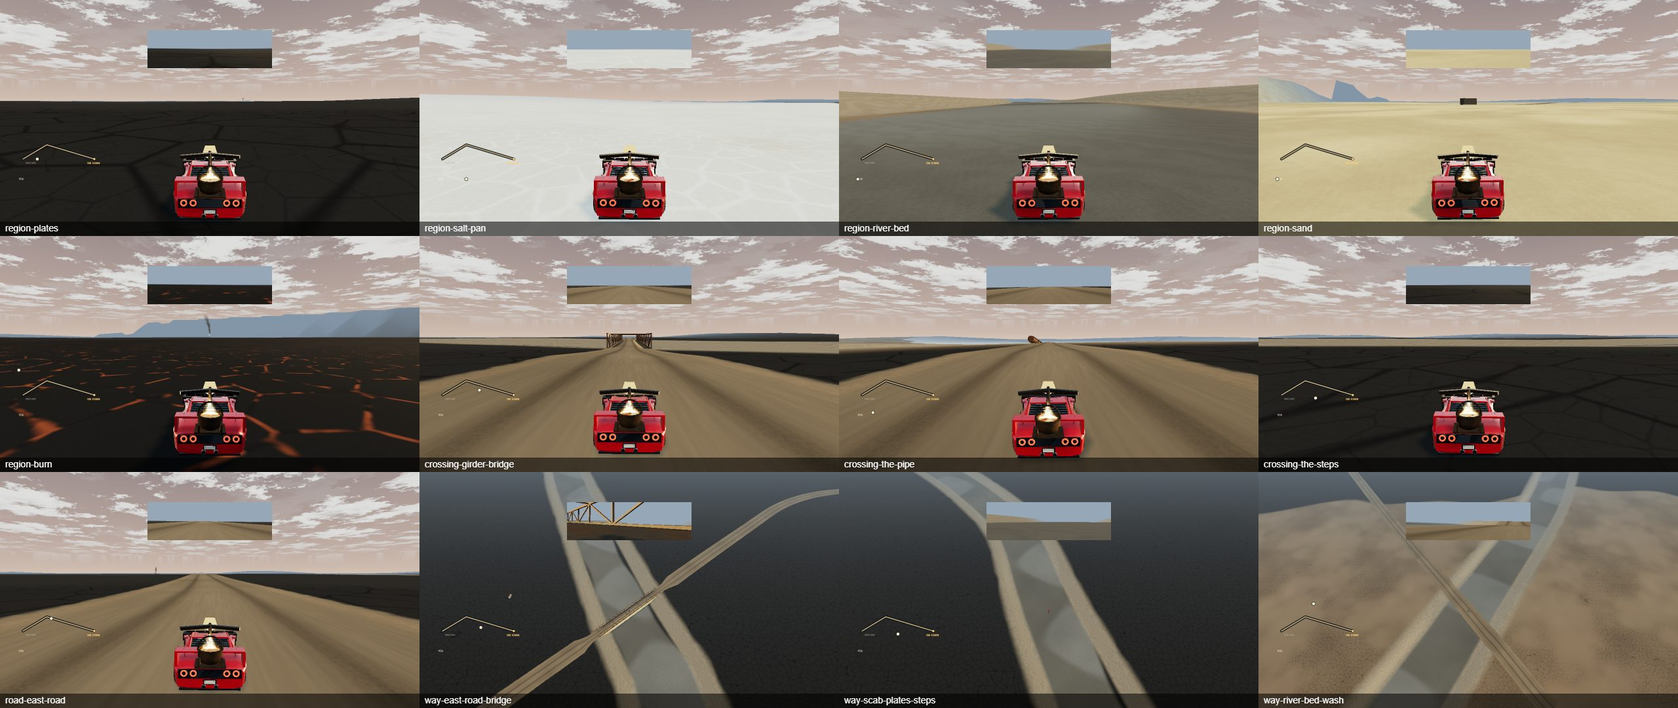
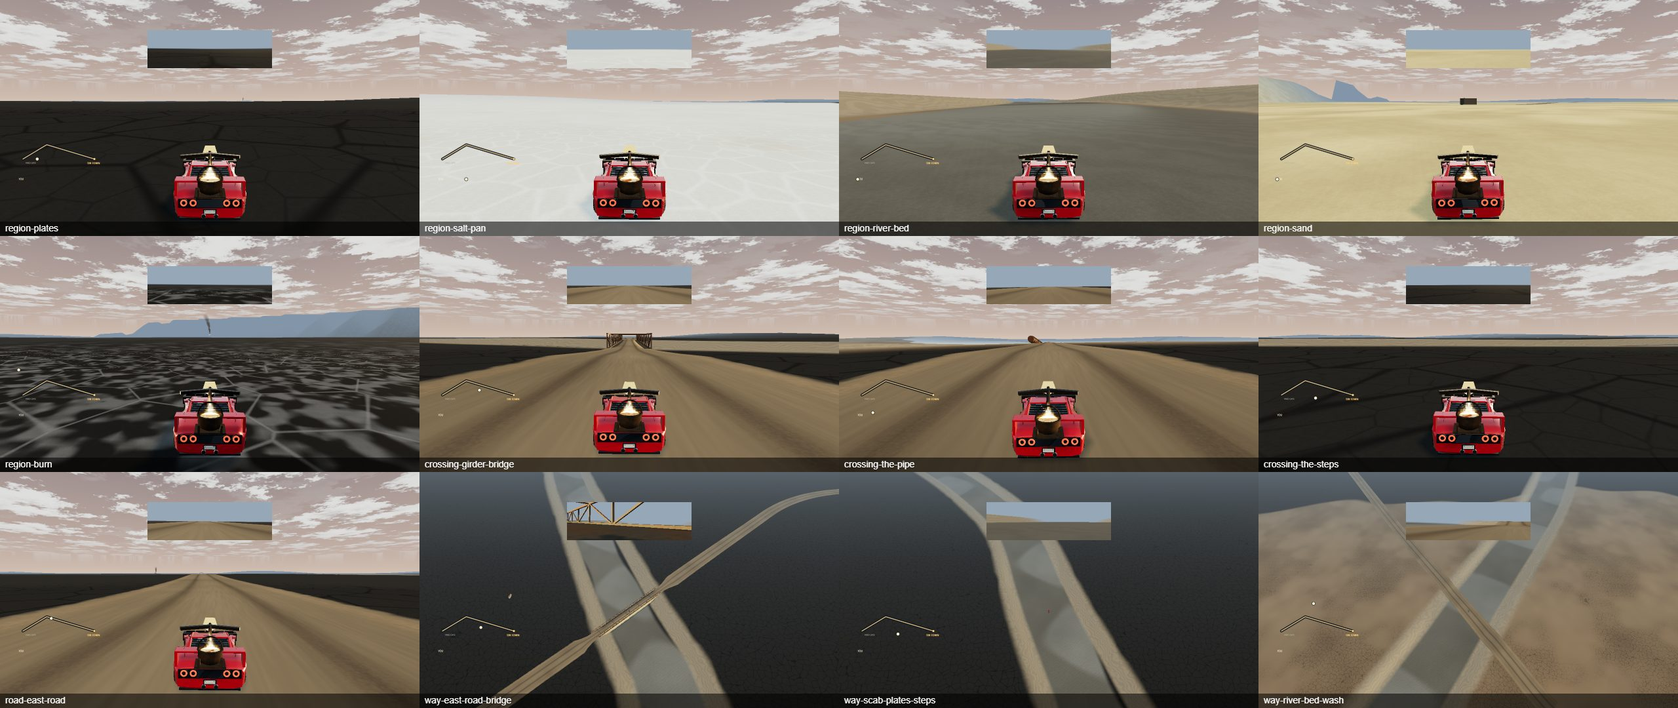
SCABLANDS-LAND round 4 slice 2a: reviewed, corrected and merged; the map, solid ground, hill country and falling buildings designed
Claude at the merge: the drag off a road is capped at 40 mph a second (a car leaving
the salt pan for rock was shedding 9 km/h in a step, which the ember read as a hit), the
size suite's step limit is 2 mph again, and the burn is drawn as burnt ground, not lava.
Sheet round-5 reviewed. Kyle's direction of 14 November (hills, solid buildings that fall
and cost scrap, the map) is on the decisions page and the card, with a design for each.

Changed region(s): [[0.0, 0.4889, 0.25, 0.6722], [0.0938, 0.3972, 0.1562, 0.4278]]

diff --git a/src/world/scablands-ground-look.js b/src/world/scablands-ground-look.js
@@ -8,7 +8,7 @@
 //   the river bed  grey packed sand with ripples, dark soft patches, banks of layered rock;
 //   wreck fields   rust-stained dirt with flecks of metal;
 //   sand           pale dunes with fine ripples on them;
-//   the burn       black ash with dim red glints in its cracks near the Everburn.
+//   the burn       ground that has burnt: black soot near the Everburn, grey ash drifted over it, pale ash in the cracks.
 // The edges between regions are uneven (the same wave the driving uses). Cracks are cut from a cell pattern worked out from the
 // point itself, so that nothing repeats at any distance: the old crack pattern was read from a picture 413 m across and showed as a
 // grid a few hundred metres ahead. Roads (createRoadLook) are graded dirt with ruts and a berm.
@@ -177,14 +177,17 @@ export function createGroundLook({rock = 0x57493c, stone = 0x302b26, regions = n
             dc=mix(dc,dc*vec3(.82,.76,.7),smoothstep(.6,.85,gMid.r)*.4);
             gc+=dc*wSand;
           }
-          // ---- The burn: black ash, with dim red glints in its cracks near the Everburn.
+          // ---- The burn: ground that has burnt. Black soot near the Everburn, grey ash drifted over it further out, pale ash lying
+          // in the cracks. Nothing glows (glowing cracks read as lava); the vents and their fire come with the Everburn's job.
           if(wBurn>.004){
             vec3 bv=gVoronoi(gq/5.5);float seeB=smoothstep(2.0,9.0,5.5/gPix);
-            vec3 bc=uColBurn*(.6+.9*gBig.r)*(.8+.4*gFine.g);
-            float crack=mix(.1,1.0-smoothstep(.0,.09,bv.y),seeB);
-            bc=mix(bc,bc*.4,crack*.6);
             float near=1.0-smoothstep(300.0,1500.0,length(gq-uBurnCentre));
-            gGlow+=vec3(.5,.11,.02)*crack*near*smoothstep(.45,.7,gMid.g)*wBurn;
+            vec3 bc=uColBurn*(.6+.9*gBig.r)*(.8+.4*gFine.g);
+            float drift=smoothstep(.42,.74,gMid.g)*(1.0-.6*near);
+            bc=mix(bc,vec3(.2,.19,.18)*(.75+.5*gFine.r),drift*.6);
+            float crack=mix(.06,1.0-smoothstep(.0,.045,bv.y),seeB);
+            bc=mix(bc,vec3(.29,.28,.26)*(.7+.4*gFine.g),crack*.32*(1.0-drift*.5));
+            bc*=1.0-.35*smoothstep(.6,.85,gBig.g)*near;
             gc+=bc*wBurn;
           }
           // ---- The river bed and its banks: grey packed sand with ripples and dark soft patches; banks of layered rock.

diff --git a/src/sim-driving.js b/src/sim-driving.js
@@ -276,8 +276,13 @@ export function _drive(dt) {
     const scrub = surface.scrub;
     s.speedMph *= Math.exp(-scrub * dt * (s.speedMph > offRoadLimit ? 1 : .25));
     // A car at full throttle settles a little over the limit (the pull against it is 1.4 a second). On the Scablands' regions the pull is
-    // 4 a second, so that a region's share of the top speed is the speed a car settles at, give or take a few percent.
-    if (s.speedMph > offRoadLimit) s.speedMph -= (s.speedMph - offRoadLimit) * (1 - Math.exp(-(surface.region ? 4 : 1.4) * dt));
+    // 4 a second, so that a region's share of the top speed is the speed a car settles at, give or take a few percent; but it never takes
+    // more than 40 mph in a second, so that a car leaving a road at speed is dragged down over a second or two and is not stopped as if by
+    // a wall (at 4 a second alone a car coming off the salt pan onto rock shed 9 km/h in one step, which the ember's rule read as a hit).
+    if (s.speedMph > offRoadLimit) {
+      const over = s.speedMph - offRoadLimit;
+      s.speedMph -= surface.region ? Math.min(over * (1 - Math.exp(-4 * dt)), 40 * dt) : over * (1 - Math.exp(-1.4 * dt));
+    }
     if (!surface.boostAllowed) s.boosting = false;
   }
   if(mud>0)s.speedMph*=Math.exp(-mud*.36*dt);

diff --git a/docs/board/cards/SCABLANDS-LAND.md b/docs/board/cards/SCABLANDS-LAND.md
@@ -262,6 +262,9 @@ suites, and the replay fingerprints of those jobs. None of that is in the game f
 3. **Beside the roads:** the seeded things and the hand-placed ones. A look round, sheet to Kyle.
 4. **The map:** the big and small maps redrawn from the same road and ground data.
 
+Order changed on 14 November after Kyle's second note (below): 2a, then 2b and the map (4) side
+by side, then 2c (hill country), 3 (beside the roads) and 2d (buildings fall).
+
 ### Slice 1 result (a Sonnet helper; reviewed by Claude, 14 November 2026): merged, switches off
 
 The land is 14 km by 10 km. The eight places stand ten times as far from the yard; the ridge and
@@ -412,10 +415,216 @@ toy-like.
 - **2a: regions, roads and how the ground drives.** All of the above. The river bed is drawn sunk
   with its banks but a car can still cross anywhere (so this build alone does not yet make
   routes).
-- **2b: ground that cannot be crossed.** The river's banks, the rises' steep faces and the
-  places' own buildings are solid: a car that meets one is stopped and pushed back, loses the
-  speed, and takes the hit. The crossings are the only ways over. Then Claude drives every road
-  and tries every short cut, in a window.
+- **2b: ground that cannot be crossed.** Designed below ("Slice 2b design").
+
+### Slice 2a result (a Sonnet helper; reviewed and corrected by Claude, 14 November 2026): merged, switches off
+
+Built as designed. Full note: `docs/changes/SCABLANDS-LAND.md`, "Round 4 slice 2a". Sheet
+`docs/board/looks/scablands-land/round-5.jpg` with Claude's review beside it.
+
+- **Twelve roads, 54 km**, curved so that the quickest car in the game holds every one within
+  2.4 m of its line at full speed. The old ring and the delivery road are gone.
+- **The dry river** with its five crossings, cut 8 m into the land. A car can still cross it
+  anywhere until slice 2b.
+- **Eight kinds of ground**, each drawn in code and each driving by the design's table. A car at
+  full throttle settles at about 194 km/h on a road, 240 on the salt pan, 146 on the flats, 96
+  on the scab plates and 74 in the sand.
+- **Sixteen low rises**, 26 m high (30 m made a road too steep), so a place is not seen from
+  the last one.
+- **The ember** reads the ground's safe speed; cold is 0.14 a second. Its three drives hold: the
+  East Road at 150 km/h arrives bright (72.5 left); the scab short cut at 50 km/h arrives alive
+  (39.1); a car held under 30 km/h goes out before Tin Town (at 5,966 m, with only six seconds
+  to spare; set again when the job is remade).
+- **Felt:** the camera shakes on scab rock and in the river bed, more with speed; the dust takes
+  the ground's colour; nine sound cues, one for each ground (`world.ground.road`, `.flats`,
+  `.salt-pan`, `.scab-plates`, `.river-bed`, `.river-soft`, `.sand`, `.wreck-fields`, `.burn`),
+  made from sounds the game has and not yet heard by anyone.
+- The East Road is 7.8 km, not 7: the bridge stands where the river runs north to south.
+
+**Two corrections by Claude at the merge.**
+1. *A car leaving a road was stopped as if by a wall.* To make a car settle at the table's
+   speed the helper raised the pull toward the ground's speed from 1.4 to 4 a second. A car
+   coming off the salt pan onto rock then shed 9 km/h in one step, more than twelve times a
+   hard brake, and the ember's rule read that as a hit. The pull stays 4 a second near the
+   ground's speed and never takes more than 40 mph in a second, so a car is dragged down over a
+   second or two. With that, the size suite's limit on a step's change of speed is back at 2 mph
+   (the helper had raised it to 3.2).
+2. *The burn read as lava.* Redrawn as burnt ground with nothing glowing (see the look review).
+
+**Changed assertions, reviewed by Claude (rule 18).** Listed by suite in the change note. Each
+follows the land's change and none is loosened: the ring and delivery-road checks became road
+net checks; the ember's road question became the ground's safe speed, and its three drives are
+the design's; the starts of jobs 5 and 6 are checked as more than 60 m from any road; the rail
+suite's copy of the height adds the rises and the river. Judged one by one:
+- `test-p4-audio` leaves the nine new ground cues out of the old sound bank's pin, as it did
+  the ember's three. Accepted: the pin guards the old records, which did not change.
+- `test-scablands-size`: the step limit of 3.2 mph is refused and is 2 again (correction 1).
+
+**Not driven by Claude in real time.** The app's browser pane was hidden again and the game
+does not load in it. Claude judged the pictures from a visible window. The real drive, every
+road and every short cut, is owed at the end of slice 2b, where the land first resists.
+
+**Left for the slices that own them.** Jobs 3 to 6 and the gas runs keep straight legs between
+names, off the new roads (each is set when its job is remade). A car flies off the far lip of a
+bank at 100 mph and drops 8 m into the bed in half a second with no harm (2b). The Steps have
+no way marked (2b). The six junk cars and three ramps of the old oval remain (2b).
+
+### Slice 2b design (Claude, 14 November 2026): the land's shape is solid
+
+**The fault.** In the Scablands a car does not feel the ground's shape. It drives up any bank,
+drops 8 m into the river in half a second with no harm, and passes through every building,
+wreck, post and fence. Kyle: "you could drive through any object".
+
+**One rule for the ground: the shape that is drawn is the shape that is driven.** The race
+courses already have the rules (`limitClimb` and `slopeSpeedDelta` in `src/offroad-physics.js`,
+used by `src/sim-driving.js`); the Scablands floor skips them. In the Scablands only:
+
+- **A slope slows a car going up and speeds it going down**, by the rule the courses use.
+- **A car cannot climb ground steeper than it can grip.** It is stopped at the foot, pushed back
+  and loses its speed: a hit, with the armour and ember loss a hit of that speed has. The
+  river's banks (8 m in 26 m) are too steep for every car; so the bed is left only at a
+  crossing.
+- **A car that drives off a lip falls.** It is in the air, it lands, and the landing is a hit
+  sized by the drop: about nothing under 1 m, hard at 3 m, and off the full 8 m bank it wrecks a
+  light car's armour by half and puts the ember out. A fall never ends a job by itself.
+- **The crossings are shaped so the rule lets a car through.** The Wash and the South Ford are
+  gentle enough to drive at speed. The Steps are a rough ramp: under 25 km/h a car climbs them,
+  faster it is thrown back, and the ember is safe there only under 20 km/h. The Girder Bridge
+  and the Pipe have decks; off the side of a deck is a fall into the bed.
+- **Jumps stay.** A car that leaves a rise or a ledge at speed flies and lands, as on the Summit
+  (`docs/board/decisions.md`, "Keep these"). The three old ramps of the first oval go.
+
+**One rule for things: everything drawn that is taller than a wheel is solid.** Buildings,
+Tin Town's wall, gate posts and shacks, the Boneyard's wrecks, the mall, the well's props, the
+bridge's girders, the pipeline, braziers, barricades, the radio mast. A car that meets one is
+stopped and pushed out along the nearest face, keeps the speed that runs along the face, and
+takes a hit for the speed that ran into it. Each thing is a box or a round post, built from the
+same data that draws it (the table `SCABLANDS_SOLIDS` is test data today and becomes the real
+list). Things are found by a grid, so the cost does not grow with the land. Raiders and Big
+Bess obey the same things. A person on foot already cannot walk through them.
+
+**Scarps.** Four of the sixteen rises get a steep face on one side, 12 to 20 m high and too
+steep to climb, drawn as broken rock: the two rises on the scab plates either side of the
+Steps (so the scab short cut is a way through a gap, not a line), one north of the Halfway
+Camp, and one between the salt pan and the Ridge. A road never meets a scarp.
+
+**Gone.** The six junk cars and the three ramps of the old oval; the test car the harness
+parks 1,058 m east of the yard is found and explained or removed.
+
+**Proved by driving at each** (a check for each kind, then Claude in a window): into a bank
+from the bed; off a lip at 30, 100 and 200 km/h; up the Steps at 20 and at 60 km/h; off the
+side of the bridge; into a shack, a wreck, a gate post and a girder, head on and at a glance;
+every crossing by its road at the road's top speed; and each of the four ways from the yard to
+Tin Town driven end to end by a scripted driver as a builder's check. Race replays and the
+Scrapdome's fights must not move.
+
+### More direction from Kyle (14 November 2026, on seeing the regions being built)
+
+"I like what you're working on." Then, in his words:
+
+- **The map.** "That map is entirely ridiculous." (His picture: a bent line with "YARD GATE" and
+  "TIN TOWN" and two dots, lying over the ground with nothing behind it.)
+- **Hills.** "The scablands seem all flat, but what if we introduced parts where there are hills
+  and other terrain?" Hills and obstacles "that we can hide behind or drive over and likewise
+  the opponents do the same". "Some flatlands are good, some variation would be too. A wide
+  flat land is great for a major skirmish, but sometimes a hide and seek game could be fun too."
+- **An idea for later, not scheduled.** A version of the old "Scorched Earth" game that ties in
+  the Lab's lessons on parabolas: "our tank in one place and fire at other fixed locations, or
+  maybe a catapult instead of a tank". It needs terrain to be a fun view.
+- **Buildings.** "All the buildings could be driven through, they had no hit box. We might as
+  well make it reasonably real in that you can't walk or drive through buildings. If we drive
+  through buildings, they must collapse and cost scrap to rebuild."
+
+What Claude does with it: the map is redrawn now, beside slice 2b, and not last. Slice 2b makes
+every drawn thing solid. Two slices are added: 2c, hill country, and 2d, buildings that fall.
+
+### Slice 4 design (Claude, 14 November 2026): the map
+
+**The fault.** The small map draws the job's own line and nothing of the land, so it cannot be
+used to choose a way or to tell where the car is. On some screens it has no panel behind it.
+
+**One picture of the land, made once.** When the Scablands loads, the game draws the whole land
+into one image from the same data the ground is drawn from: each region in its own muted
+colour, the river as a dark cut with its banks, the five crossings, every road as a pale line,
+the rises and hills as shading, the places as small plans of what stands there. Nothing in it
+is typed by hand, so the map cannot disagree with the land.
+
+**The small map** (always on screen in the Scablands, bottom left, on a dark panel with a
+border):
+- shows the land round the car, about 2.5 km across, north at the top;
+- the car is an arrow that turns with the car;
+- the job's place is a marker; when it is off the map it sits on the edge in the right
+  direction with the distance in km beside it;
+- roads, the river and its crossings are plain to read at a glance; place names appear when
+  the place is on the map;
+- what the player has learnt is drawn and stays drawn: a barricade once seen, a held bridge, the
+  furnace's sight as a shaded fan;
+- no job line is drawn from point to point. A way is the player's choice.
+
+**The big map** (M): the whole land, with the regions named, each road and crossing named,
+every place, the car, the job's place, and for the job in hand the ways to it with what is
+known of each (length in km, the ground, who holds it). The game pauses while it is open.
+
+**Rules.** The map only reads the game; it changes nothing in a job. Drawing it costs no more
+than a fraction of a millisecond a frame (the land's picture is made once; only the arrow and
+markers move). The old route map's job line, its pixel rule that drops "TIN TOWN", and the two
+exemptions in the Everburn suites go.
+
+### Slice 2c design (Claude, 14 November 2026): hill country
+
+**Where the land rises.** Flat ground stays where a large fight belongs: the salt pan, the flats
+west of the yard, and the Boneyard road's battle ground. Hills go where a chase or a hunt
+belongs:
+
+- **The Breaks**, south-west of the yard toward the Everburn and the Dead Mall: rolling hills
+  40 to 90 m high, 400 to 900 m from crest to crest, with valleys a car can thread and passes
+  where the Burn Road and the Mall Road go through.
+- **The mesas** on the scab plates between the yard and Tin Town: flat tops 15 to 25 m up with
+  steep broken sides (the scarps of slice 2b) and a few ramps. Cover from the furnace's sight.
+- **The Ridge's foothills** in the north-east, climbing to the Ridge.
+- **The dunes** round the Ships: soft crests 8 to 15 m high that hide a car and take its speed.
+- **One hill that overlooks**, the Lookout, with a flat top and a long clear view over the
+  flats: kept in mind as a firing place for Kyle's artillery idea.
+
+**Hills are played, not only seen.**
+- A car slows going up, gathers speed going down, and flies off a crest taken fast (slice 2b's
+  rules).
+- **Sight.** A raider, the furnace or a lookout sees a car only along a clear line over the
+  ground, within its range. A car behind a hill is not seen. When a pursuer loses sight for
+  five seconds it goes to where the car was last seen and searches from there; it does not know
+  where the car is. The screen tells the player when the car is seen and when it is lost.
+- Raiders and Big Bess obey the same ground: they slow on the climb, cannot climb a scarp and
+  can be hidden from, ambushed from a crest, or led into a valley.
+- The furnace's sight over the scab plates (Hot Delivery) is cut by the mesas: the short cut
+  becomes a run from cover to cover.
+
+**Drawn.** The near ground already follows the land's height. The coarse ground gets cells
+fine enough that a hill 400 m across keeps its shape at a distance, inside the frame limit.
+Hill ground is drawn in code as what it is: scree on the steep faces, bare rock at the crests,
+the region's own ground in the valleys.
+
+### Slice 2d design (Claude, 14 November 2026): buildings fall
+
+Slice 2b makes every building solid. This slice makes the light ones fall, as Kyle asked.
+
+- **Light things fall, strong things do not.** A stall, a fence, a shed, a shack or a
+  barricade falls when a car hits it hard enough: about 70 km/h into the wall for a car, 40 for
+  a truck. The forge, the mall, Tin Town's gate towers, the Scrapdome, the bridge, a mast and
+  rock never fall; the car takes the whole hit.
+- **What a fall does.** The car takes the hit for its speed and loses most of it. The building
+  drops into a heap of its own boards and sheets with dust, and stays a heap: rough ground,
+  safe under 20 km/h. Cue `world.building.fall`.
+- **It costs scrap to rebuild.** Each thing has a price: a stall or fence 15, a shed 25, a
+  shack 40, a large shack 90. A building of a town that the player knocks down is charged to
+  the player: from the pay of the job in hand, or else owed to the town. While scrap is owed to
+  a town its notice board gives no work (the story's own jobs still run), and the gate keeper
+  says why. The player pays at the heap or at the gate, and the building stands again at the
+  next visit. In the player's own town the player pays to rebuild their own.
+- **Raiders** who knock a building down cost the player nothing.
+- **The save.** A list of what has fallen and what is owed to each town is added to the save.
+  A save from before reads as nothing fallen and nothing owed. Nothing else in the save
+  changes. Saves and pay: one independent review, and the save checker (rule 6).
+- **Not here:** races and their roadside buildings, which keep their crash rules.
 
 ### Open at the end of slice 1
 
@@ -423,9 +632,8 @@ toy-like.
   `everburn-ember` and `everburn-side-jobs` put the car at a position of the old land;
   `everburn-frames` fails at its start; `run-gas` sees no raid and `field-battle` no furnace in
   the time they wait, because the roads are ten times as long. `everburn-well` passes. The suites
-  that hold the rules of those jobs all pass. `everburn-ember` and `everburn-frames` are put
-  right by the builder of slice 2a, from the land's names, because slice 2a moves the roads
-  again. The other three, and `everburn-play` (card EVERBURN-REMAKE), stay failing and are
+  that hold the rules of those jobs all pass. `everburn-ember` and `everburn-frames` were put
+  right in slice 2a, from the land's names, and pass. The other three, and `everburn-play` (card EVERBURN-REMAKE), stay failing and are
   rewritten when their jobs are remade on the finished land; until then the nightly report
   lists them under this card.
 - **The machine yard** (`wasteland-town`, off) loses the ridge's foot at its four corners.

diff --git a/docs/board/looks/scablands-land/round-5-review.md b/docs/board/looks/scablands-land/round-5-review.md
@@ -1,0 +1,43 @@
+# Scablands land, round 5: regions, roads and the dry river
+
+Sheet: `round-5.jpg` (twelve pictures from the real game in a visible browser window on the QA
+page with memory-only saves, Performance). Taken 14 November 2026 with scenario
+`tools/scenarios/scablands-regions.mjs` (run with `SCABLANDS_SHEET=1`), after Claude's change to
+the burnt ground. Built by a Sonnet helper for Claude; reviewed by Claude the same day.
+
+## What the pictures show
+
+Top row: the scab plates, the salt pan, the river bed between its banks, the sand. Middle row:
+the burn, the Girder Bridge on the East Road, the Pipe on the Salt Road, the Steps. Bottom row:
+the East Road, and three ways seen from above (the road over the bridge, the scab plates at the
+Steps, the river bed at the Wash).
+
+## Verdict (Claude): merged as the land's base, behind switches that are off
+
+- **Each ground reads as a different ground at a glance.** Black broken plates, white salt with a
+  crust, grey bed, pale sand, ochre flats. The cracks no longer repeat as a grid.
+- **The roads read as roads:** graded dirt with ruts and a lighter crown, not a dark band.
+- **The river reads as a cut in the land** from the ground and from above, and the road is seen
+  to cross it on a bridge.
+- **The burn was wrong and is changed.** The helper drew glowing orange cracks, which read as
+  lava. Claude redrew it as burnt ground: black soot, grey ash drifted over it, pale ash in the
+  cracks, nothing glowing. It is better and still too much of a net of lines; it is drawn again
+  with the vents when the Everburn's job is remade.
+
+Not right yet, each with the slice that owns it:
+
+- **Every picture is still a flat plain with one thing in it.** Nothing stands beside a road
+  (slice 3) and the land has no hills (slice 2c, which Kyle asked for on seeing this).
+- **The small map is a bent line lying on the ground** with no panel. Kyle: "entirely
+  ridiculous". Slice 4, started beside slice 2b.
+- **The Steps are not drawn as steps** and have no way down marked (slice 2b).
+- **The sand is a flat pale sheet** with nothing to steer by (dunes, slice 2c).
+- **From above the river's banks look like wood grain** and the bed has long diagonal stripes.
+  A player does not see the land from there, but the big map will; the banks are redrawn with
+  the scarps in slice 2b.
+- **The far ridge is still a flat blue shape.**
+- **The Girder Bridge and the Pipe are small and plain** for things a road is named after
+  (slice 3).
+
+Not a look matter, and recorded on the card: in this slice a car still crosses the river
+anywhere and passes through every building.

diff --git a/docs/board/run-log.md b/docs/board/run-log.md
@@ -1,5 +1,6 @@
 # Wasteland run log
 
+14 November, SCABLANDS-LAND round 4 slice 2a merged, switches off (Claude; built by a Sonnet helper): twelve roads, the dry river and five crossings, eight kinds of ground that each drive their own way, sixteen rises, the ember on the ground's safe speed; Claude capped the drag off a road at 40 mph a second and redrew the burn; sheet round-5 reviewed; replays unchanged. Kyle: hills, solid buildings that fall and cost scrap, and the map is ridiculous; designs for the map, solid ground, hill country and falling buildings are on the card.
 14 November, SCABLANDS-LAND round 4 slice 1 merged, switches off (Claude; built by a Sonnet helper): the Scablands are 14 km by 10 km, places held by name, detailed ground follows the player; the oval's length corrected to 3,288 m; builder's lane tier 106 suites (2 re-recorded for the land's size), build, `test-scablands-size` 9, replays unchanged; seen in a visible window at five spots, 18.1 to 18.3 ms p95 as a guide; five older Scablands browser scenarios fail and are listed on the card; slice 2 (river, roads, regions) designed.
 14 November, EVERBURN-REMAKE slice 1 merged, switches off (Claude; built by a Sonnet helper): the ember in Cinder's pot, the pot on the car, the gauge, braziers, pay by ember; rock costs ember by the metre after Claude's drive; lane tier 154 of 155 then the review note written; `everburn-play` scenario open on the card. Kyle: the larger Scablands first, 14 km by 10 km (SCABLANDS-LAND round 4).
 14 November, released: the Everburn taken out again (`story-everburn` and `scablands-runs` back to `dev`) after Kyle played jobs 1 and 2 and found them not fit to be seen; build 26.11.14 14:19 UTC; card EVERBURN-REMAKE.

diff --git a/docs/board/decisions.md b/docs/board/decisions.md
@@ -14,6 +14,26 @@ Never "fix" these. A card that would change one must say so and ask Claude first
   (restored by FUN-TITAN-LAUNCH).
 
 
+## Kyle, 14 November 2026: the Scablands (after playing the Everburn, and on seeing the land rebuilt)
+
+- The Everburn's first two jobs are not fit to be seen and Gratian must not find them. Both
+  switches are off until Kyle has tried a remade job (card EVERBURN-REMAKE).
+- Build the land before the jobs: "doesn't it make sense to expand the scablands first so we
+  have a larger canvas to work on?"
+- "When our race courses run many km, then the scablands must be even larger. The art must
+  reflect a new land, the danger must be felt from game play. Route choices must be decisions
+  the player should weigh."
+- The small map on screen "is entirely ridiculous".
+- Hills and other terrain: "hills and obstacles that we can hide behind or drive over and
+  likewise the opponents do the same". "A wide flat land is great for a major skirmish, but
+  sometimes a hide and seek game could be fun too."
+- An idea for later: a version of the old "Scorched Earth" game tied to the Lab's lessons on
+  parabolas, with "our tank in one place" firing at fixed places, "or maybe a catapult".
+- "You can't walk or drive through buildings. If we drive through buildings, they must collapse
+  and cost scrap to rebuild."
+
+Where each is built: card SCABLANDS-LAND, round 4.
+
 ## Kyle, 11 November 2026: draw in code before building model files
 
 On Old Smoke's furnace, round 2: "this art looks toy like." Then: "are we putting effort into creating 3d assets
